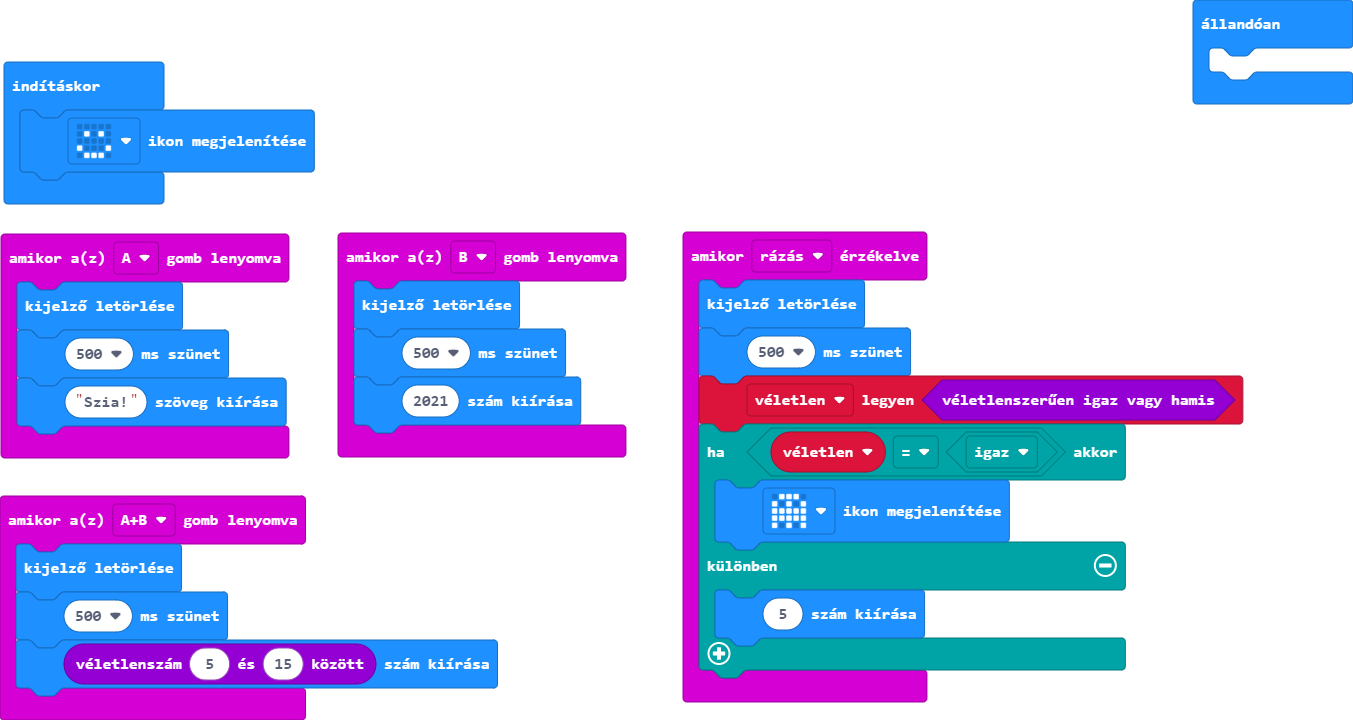
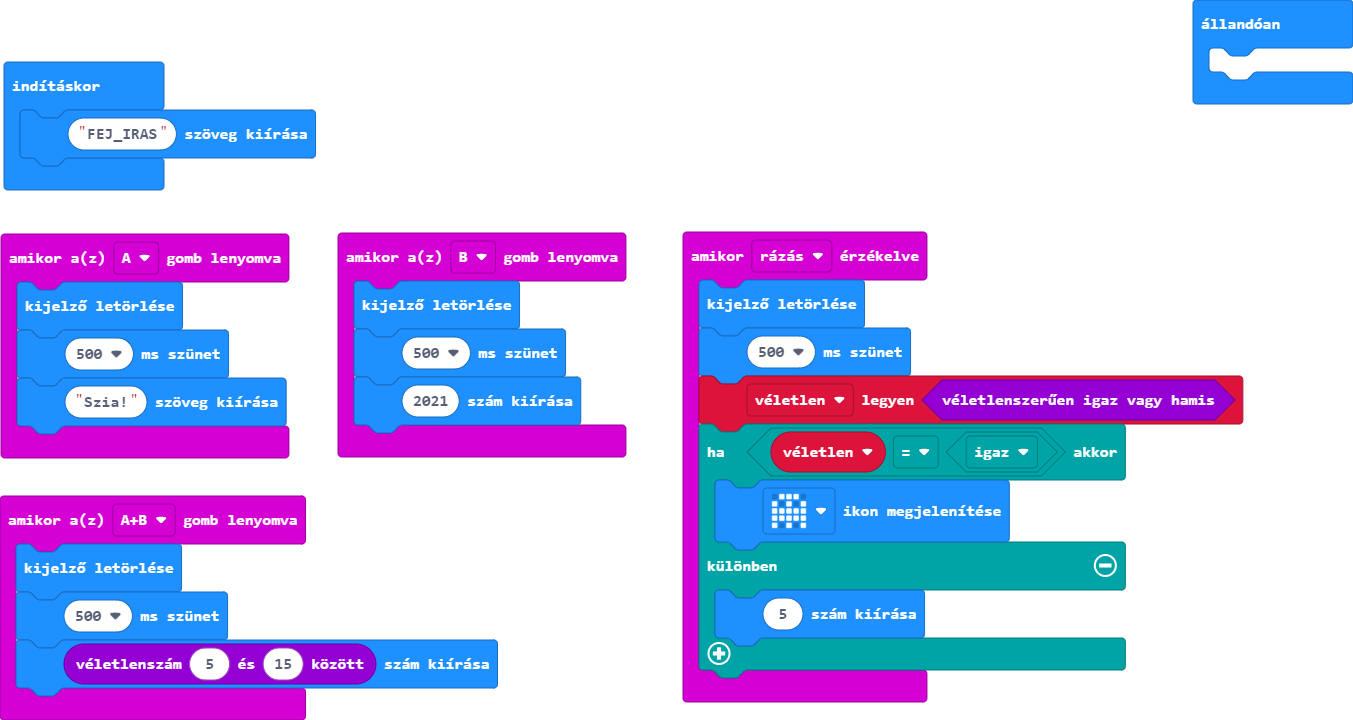
pxt.json, main.blocks, main.ts frissítése

Changed region(s): [[0.0, 0.1528, 0.2483, 0.3056]]

diff --git a/main.ts b/main.ts
@@ -24,7 +24,7 @@ input.onButtonPressed(Button.B, function () {
     basic.showNumber(2021)
 })
 let véletlen = false
-basic.showIcon(IconNames.Happy)
+basic.showString("FEJ_IRAS")
 basic.forever(function () {
 	
 })
